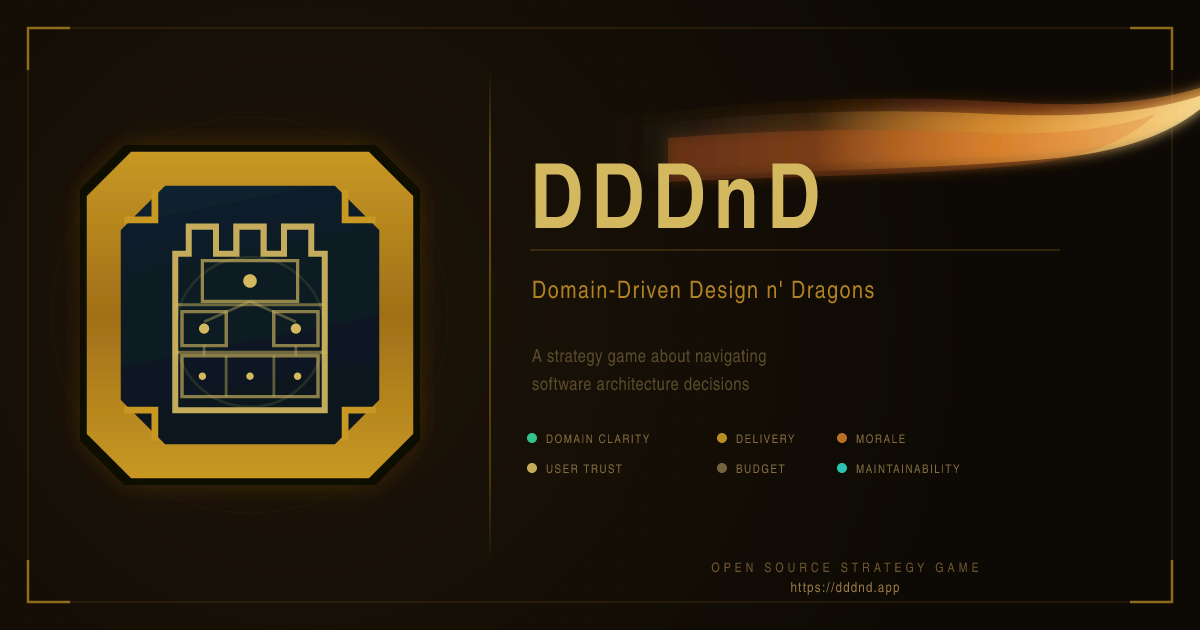
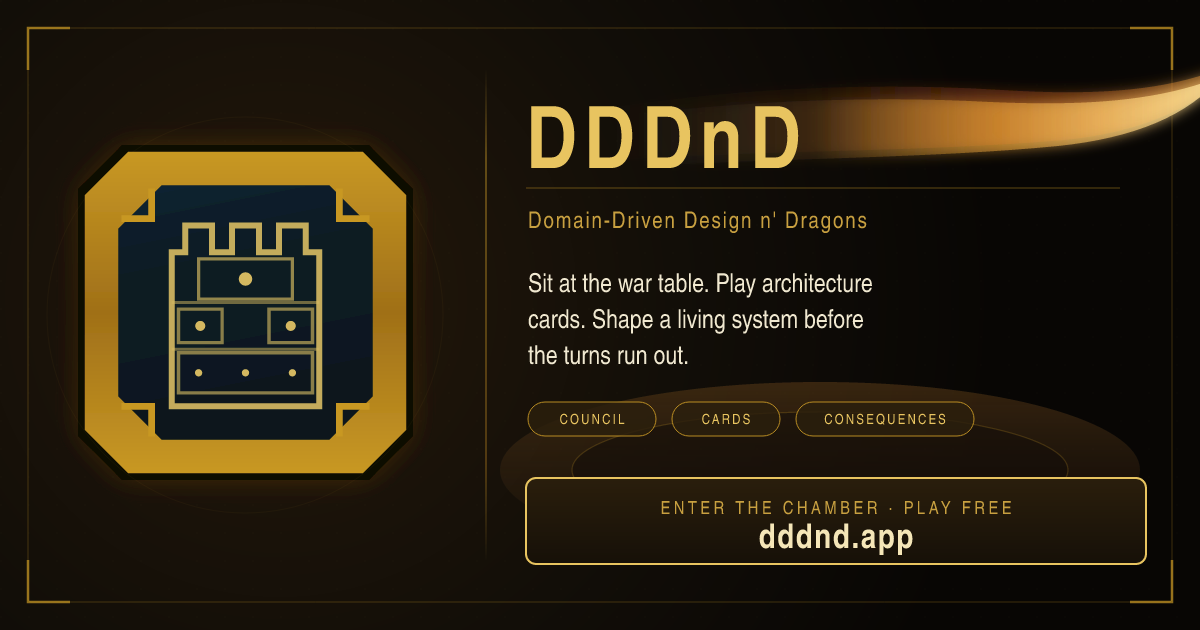
feat(ui): revamp the Open Graph card for the war table
The old preview hid the URL and still talked like a scoreboard. The card now leads with a one-sentence invite, Council / Cards / Consequences, and a large dddnd.app plaque — SVG source, regenerated PNG for embeds.

diff --git a/index.html b/index.html
@@ -7,7 +7,7 @@
     <title>DDDnD — Domain-Driven Design n' Dragons</title>
 
     <!-- SEO -->
-    <meta name="description" content="A playful strategy game about navigating software architecture decisions. Balance stakeholders, manage technical debt, and master Domain-Driven Design — one turn at a time." />
+    <meta name="description" content="Sit at the war table. Play architecture cards. Shape a living software system before the turns run out — Domain-Driven Design n' Dragons." />
     <meta name="author" content="Moriel Schottlender" />
     <meta name="theme-color" content="#0c0a05" />
     <!-- canonical:placeholder -->
@@ -15,19 +15,19 @@
     <!-- Open Graph -->
     <meta property="og:type" content="website" />
     <meta property="og:title" content="DDDnD — Domain-Driven Design n' Dragons" />
-    <meta property="og:description" content="A playful strategy game about navigating software architecture decisions. Balance stakeholders, manage technical debt, and master Domain-Driven Design — one turn at a time." />
+    <meta property="og:description" content="Sit at the war table. Play architecture cards. Shape a living software system before the turns run out." />
     <meta property="og:image" content="%SITE_URL%/og-image.png" />
     <meta property="og:image:width" content="1200" />
     <meta property="og:image:height" content="630" />
-    <meta property="og:image:alt" content="DDDnD logo — a castle sigil representing domain-driven architecture, with game score metrics on a dark blueprint background" />
+    <meta property="og:image:alt" content="DDDnD — sit at the war table, play architecture cards, shape a living system. Play free at dddnd.app" />
     <meta property="og:site_name" content="DDDnD" />
 
     <!-- Twitter / X -->
     <meta name="twitter:card" content="summary_large_image" />
     <meta name="twitter:title" content="DDDnD — Domain-Driven Design n' Dragons" />
-    <meta name="twitter:description" content="A playful strategy game about navigating software architecture decisions. Balance stakeholders, manage technical debt, and master Domain-Driven Design — one turn at a time." />
+    <meta name="twitter:description" content="Sit at the war table. Play architecture cards. Shape a living software system before the turns run out." />
     <meta name="twitter:image" content="%SITE_URL%/og-image.png" />
-    <meta name="twitter:image:alt" content="DDDnD logo — a castle sigil representing domain-driven architecture, with game score metrics on a dark blueprint background" />
+    <meta name="twitter:image:alt" content="DDDnD — sit at the war table, play architecture cards, shape a living system. Play free at dddnd.app" />
   </head>
   <body>
     <div id="app"></div>
